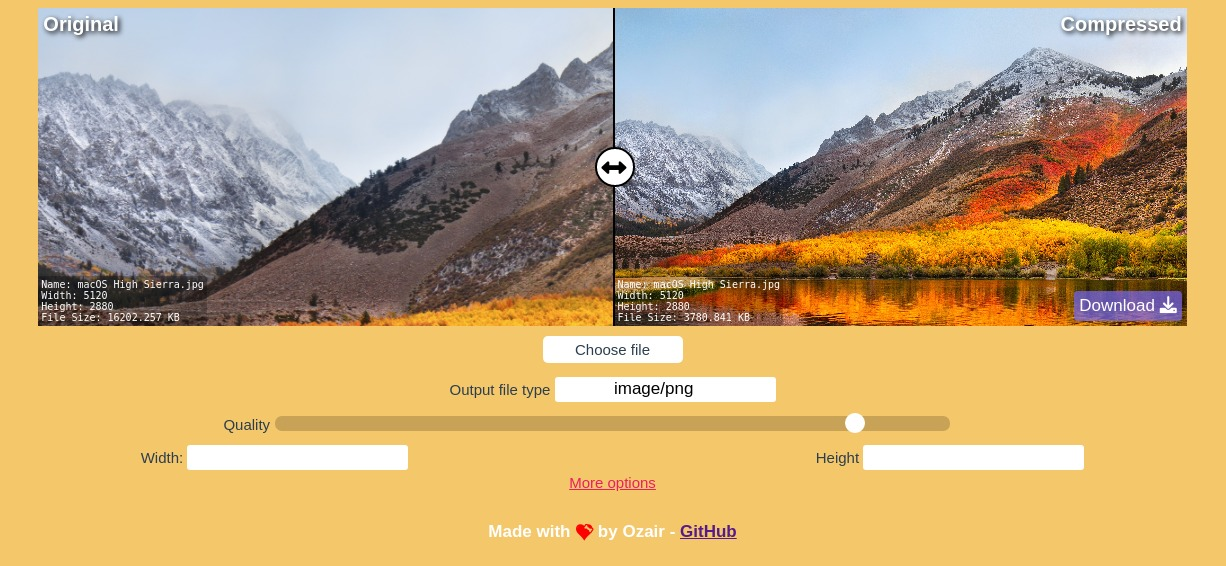
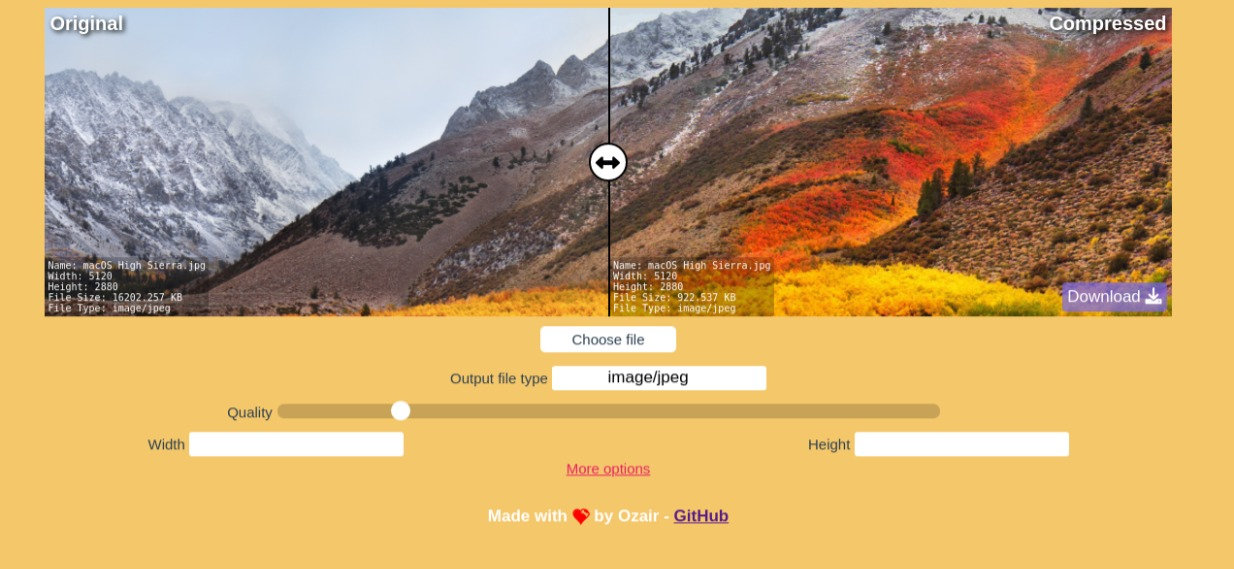
improvements

diff --git a/assets/js/main.js b/assets/js/main.js
@@ -1,13 +1,17 @@
+const imagesDiv = document.querySelector(".app__images-div");
 const originalImage = document.querySelector(".app__original-image");
 const originalImageInfo = document.querySelector(
   ".app__original-image > .app__image-info"
 );
+const compressedImageFrame = document.querySelector(
+  ".app__compressed-image-frame"
+);
 const compressedImage = document.querySelector(".app__compressed-image");
 const resizeButton = document.querySelector(
-  ".app__compressed-image__resize-button"
+  ".app__compressed-image-frame__resize-button"
 );
 const compressedImageInfo = document.querySelector(
-  ".app__compressed-image > .app__image-info"
+  ".app__compressed-image-frame > .app__image-info"
 );
 const downloadButton = document.querySelector(
   ".app__compressed-image__download-button"
@@ -38,17 +42,6 @@ fileInput.onchange = function (e) {
   changeOriginalImage();
 };
 
-// To resize the compressed image
-resizeButton.onmousedown = () => (resizeButton.dataset.clicked = true);
-originalImage.onmouseup = () => (resizeButton.dataset.clicked = false);
-originalImage.onmouseleave = () => (resizeButton.dataset.clicked = false);
-originalImage.onclick = handleResize;
-originalImage.onmousemove = (e) => {
-  if (JSON.parse(resizeButton.dataset.clicked)) {
-    handleResize(e);
-  }
-};
-
 optionsInputs.forEach(
   (input) =>
     (input.onblur = function () {
@@ -66,6 +59,18 @@ optionsInputs.forEach(
     })
 );
 
+// To resize the compressed image
+imagesDiv.onmousedown = () => (imagesDiv.dataset.clicked = true);
+imagesDiv.onmouseup = () => (imagesDiv.dataset.clicked = false);
+imagesDiv.onmouseleave = () => (imagesDiv.dataset.clicked = false);
+imagesDiv.onclick = handleResize;
+imagesDiv.onmousemove = (e) => {
+  if (JSON.parse(imagesDiv.dataset.clicked)) {
+    handleResize(e);
+  }
+};
+imagesDiv.ontouchmove = handleResize;
+
 showMoreButton.onclick = () => {
   moreInputsDiv.classList.toggle("show");
 };
@@ -73,6 +78,7 @@ rangeElem.onmousedown = () => (rangeElem.dataset.clicked = true);
 rangeElem.onmouseup = () => (rangeElem.dataset.clicked = false);
 rangeElem.onmouseleave = () => (rangeElem.dataset.clicked = false);
 rangeElem.onmousemove = handleRangeInputMouseMove;
+
 function handleRangeInputMouseMove(e) {
   if (JSON.parse(rangeElem.dataset.clicked)) handleRangeClick(e);
 }
@@ -107,17 +113,20 @@ function compressImage() {
 }
 
 function handleResize(e) {
-  const rect = originalImage.getBoundingClientRect();
-  const x = rect.right - e.pageX;
-  const width = (100 * x) / rect.width;
-  if (width >= 25 && width <= 100) {
-    compressedImage.style.width = width + "%";
+  if (!e.path.includes(downloadButton)) {
+    if (e.type === "touchmove") e = e.changedTouches[0];
+    const rect = imagesDiv.getBoundingClientRect();
+    const x = rect.right - e.pageX;
+    let width = (100 * x) / rect.width;
+    if (width < 25) width = 25;
+    else if (width > 100) width = 100;
+    compressedImageFrame.style.width = width + "%";
+    resizeButton.style.left = 100 - width + "%";
   }
 }
 
 function changeOriginalImage() {
-  if (!originalImage.classList.contains("show"))
-    originalImage.classList.add("show");
+  if (!imagesDiv.classList.contains("show")) imagesDiv.classList.add("show");
   originalImage.style.backgroundImage = `url("${URL.createObjectURL(file)}")`;
   compressImage();
   setInfo(originalImageInfo, file);
@@ -132,6 +141,7 @@ function setInfo(elem, file) {
       <p>Width: ${image.width}</p>
       <p>Height: ${image.height}</p>
       <p>File Size: ${(file.size / 1024).toFixed(3)} KB</p>
+      <p>File Type: ${file.type}</p>
 
     `;
     elem.innerHTML = html;
@@ -140,6 +150,10 @@ function setInfo(elem, file) {
 
 // This function runs on page load to set default image
 (function () {
+  const imagesDivRect = imagesDiv.getBoundingClientRect();
+  compressedImage.style.width = imagesDivRect.width + "px";
+  // compressedImage.style.height = imagesDivRect.height + "px";
+
   const image = document.querySelector(".dummy-image");
   const canvas = document.createElement("canvas");
   const ctx = canvas.getContext("2d");
@@ -148,10 +162,12 @@ function setInfo(elem, file) {
   ctx.drawImage(image, 0, 0, image.width, image.height);
   canvas.toBlob(
     (blob) => {
-      blob.name = "Lanzarote, Spain";
-      file = blob;
-      changeOriginalImage();
-      URL.revokeObjectURL(blob);
+      if (blob) {
+        blob.name = "Lanzarote, Spain";
+        file = blob;
+        changeOriginalImage();
+        URL.revokeObjectURL(blob);
+      }
     },
     "image/png",
     1

diff --git a/index.html b/index.html
@@ -6,19 +6,27 @@
     <meta name="viewport" content="width=device-width, initial-scale=1.0" />
     <link rel="stylesheet" href="./assets/css/style.css">
     <link rel="stylesheet" href="https://cdnjs.cloudflare.com/ajax/libs/font-awesome/6.0.0-beta3/css/all.min.css" integrity="sha512-Fo3rlrZj/k7ujTnHg4CGR2D7kSs0v4LLanw2qksYuRlEzO+tcaEPQogQ0KaoGN26/zrn20ImR1DfuLWnOo7aBA==" crossorigin="anonymous" referrerpolicy="no-referrer" />
+    <script src="./assets/js/Compressor.js"></script>
+    <script src="./assets/js/main.js" defer></script>
     <title>Image Compressor</title>
   </head>
   <body>
     <div id="app">
       <!-- Div containing original and compressed image -->
-      <div class="app__original-image">
+      <div class="app__images-div" data-clicked="false">
+        <!-- Dummy Image, appears on pageload -->
         <img src="./assets/images/background.jpg" alt="dummy" style="display: none;" class="dummy-image">
-        <div class="app__image-info"></div>
-        <div class="app__compressed-image">
+
+        <div class="app__original-image">
           <div class="app__image-info"></div>
-          <p data-clicked='false' class="app__compressed-image__resize-button"><i class="fas fa-arrows-alt-h"></i></p>
+        </div>
+
+        <div class="app__compressed-image-frame">
+          <div class="app__compressed-image"></div>
+          <div class="app__image-info"></div>
           <a href="" class="app__compressed-image__download-button" download>Download <i class="fas fa-download"></i></a>
         </div>
+        <p class="app__compressed-image-frame__resize-button"><i class="fas fa-arrows-alt-h"></i></p>
       </div>
       <!-- file input -->
       <label for="app__file-input">
@@ -27,11 +35,11 @@
       </label>
       <!-- output file type -->
       <label for="app__output-file-type-input">Output file type
-        <input type="text" name='outputType' class="app__output-file-type-input" list="image-file-types" value="image/png">
+        <input type="text" name='outputType' class="app__output-file-type-input" list="image-file-types" value="image/jpeg">
       </label>
       <datalist id="image-file-types">
+        <option value="image/jpeg"/>
         <option value="image/png"/>
-        <option value="image/jpg"/>
         <option value="image/webp"/>
       </datalist>
       <!-- Range input -->
@@ -41,7 +49,7 @@
 
       <!-- Height and width input -->
       <div class="app__grouped-inputs">
-        <label>Width:
+        <label>Width
           <input name="width" type="number">
         </label>
         <label>Height
@@ -71,7 +79,5 @@
       </div>
       <p class="app__credits">Made with <span>💝</span> by Ozair - <a href="https://github.com/ozair-dev/image-compressor" target="_blank">GitHub</a></p>
     </div>
-    <script src="./assets/js/Compressor.js"></script>
-    <script type="module" src="/main.js" defer></script>
   </body>
 </html>

diff --git a/assets/css/style.css b/assets/css/style.css
@@ -28,26 +28,39 @@ html, body{
   user-select: none;
 }
 
-.app__original-image{
+.app__images-div{
   margin-top: 1rem;
   width: 85%;
   height: 50vh;
-  background-size: cover;
-  background-position: left;
-  background-color: hsl(40, 100%, 69%);
   position: relative;
+  background-color: hsl(40, 100%, 69%);
 }
 
-.app__compressed-image{
+.app__original-image{
+  width: 100%;
+  height: 100%;
+  background-size: cover;
+  background-position: center;
+}
+
+.app__compressed-image-frame{
   display: none;
   position: absolute;
   top: 0;
   right: 0;
   width: 50%;
   height: 100%;
-  background-size: cover;
-  background-position: right;
   border-left: black 2px solid;
+  overflow: hidden;
+}
+
+.app__compressed-image{
+  position: absolute;
+  top: 0;
+  right: 0;
+  height: 100%;
+  background-size: cover;
+  background-position: center;
 }
 
 .app__image-info{
@@ -62,15 +75,15 @@ html, body{
   bottom: 0rem;
 }
 
-.app__original-image.show .app__image-info{
+.app__images-div.show .app__image-info{
   display: initial;
 }
 
-.app__compressed-image__resize-button{
+.app__compressed-image-frame__resize-button{
   margin: 0;
   position: absolute;
   top: 50%;
-  left: 0;
+  left: 50%;
   transform: translate(-50%, -50%);
   font-size: 2.5rem;
   width: 4rem;
@@ -80,10 +93,14 @@ html, body{
   border-radius: 50%;
   border: 2px solid black;
   background-color: rgb(255 255 255);
+  display: none;
   cursor: pointer;
 }
+.app__images-div.show .app__compressed-image-frame__resize-button{
+  display: initial;
+}
 
-.app__original-image.show .app__compressed-image{
+.app__images-div.show .app__compressed-image-frame{
   display: initial;
 }
 
@@ -100,18 +117,20 @@ html, body{
 }
 
 
-.app__original-image.show::before{
+.app__images-div.show .app__original-image::before{
   content: "Original";
   top: 0.5rem;
   left: 0.5rem;
 }
 
-.app__compressed-image::before{
+.app__compressed-image-frame::before{
   content: "Compressed";
   top: 0.5rem;
   right: 0.5rem;
+  z-index: 1;
 }
-.app__original-image.show::before, .app__compressed-image::before{
+.app__images-div.show .app__original-image::before,
+.app__compressed-image-frame::before{
   color: white;
   position: absolute;
   font-size: 2rem;

diff --git a/assets/js/Compressor.js b/assets/js/Compressor.js
@@ -19,6 +19,7 @@ class Compressor {
     this.canvas = document.createElement("canvas");
     this.ctx = this.canvas.getContext("2d");
     this.compress();
+    console.log(this.options);
   }
 
   compress() {

diff --git a/README.md b/README.md
@@ -1,5 +1,7 @@
 # image-compressor
 
+See [demo](https://ozair-dev.github.io/image-compressor) here
+
 ![Image Compressor](/assets/images/sample.jpeg "Image Compressor")
 
 ## Getting started
